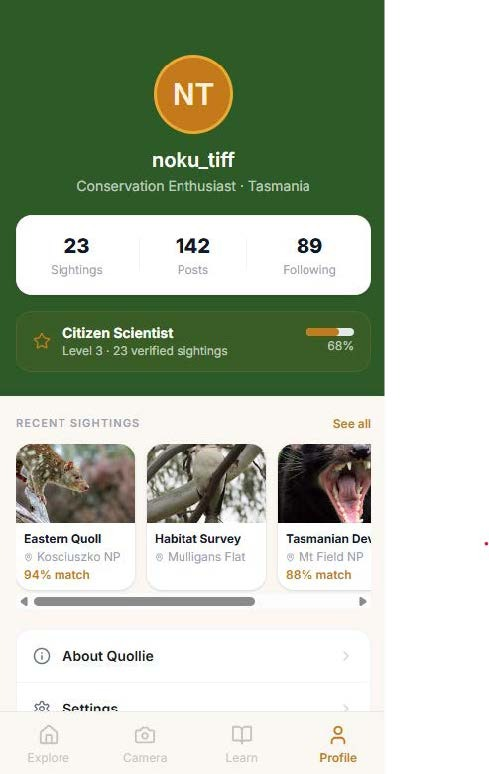
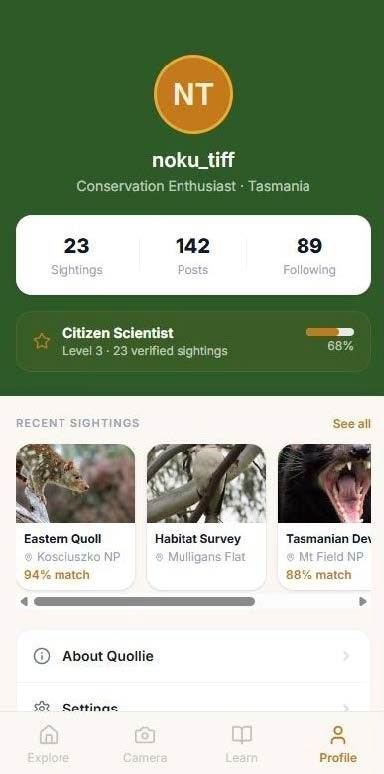
Refactor code/style structure for improved readability and maintainability

diff --git a/styles.css b/styles.css
@@ -1,5 +1,29 @@
+/* The stylesheet for this portoflio is designed to accomodate
+structure, readability and accessibility for iPhone 12 Pro mobile users.
+
+It features a single-column Flexbox layout. It uses cascade to avoid 
+repetitive rules */
+
+:root {
+    --bg-color: #f8fafc;
+    --main-text: #0f172a;
+    --font-heading: 'Garamond', Georgia, serif;
+    --font-body: Roboto, sans-serif;
+}
+
+
 body {
-    color: rgb(56, 33, 255);
-     font-family: Garamond, serif;
-    background-color: #f1f1f1;
+    background-color: var(--bg-color);
+    color: var(--main-text);
+    font-family: var(--font-body); 
+
+    display: flex;
+    flex-direction: column;
+    min-height: 100vh;
+    padding: 1.25 rem;
+}
+
+h1, h2, h3 {
+    font-family: var(--font-heading); 
+    line-height: 1.2;
 }

diff --git a/works.html b/works.html
@@ -49,8 +49,8 @@
         <article>
              <header>               
                 <h2> Wandr Travel App </h2>
-                <img src="images/Wandr - Plan your trip.png" alt="Plan your trip feature" width="250">
-                <img src="images/Wandr - Edit a day.png" alt="Edit a day feature" width="200">
+                <img src="images/Wandr Plan your trip.png" alt="Plan your trip feature" width="200">
+                <img src="images/Wandr Edit a day.png" alt="Edit a day feature" width="200">
              </header>
              <p> Content </p>
         </article>
